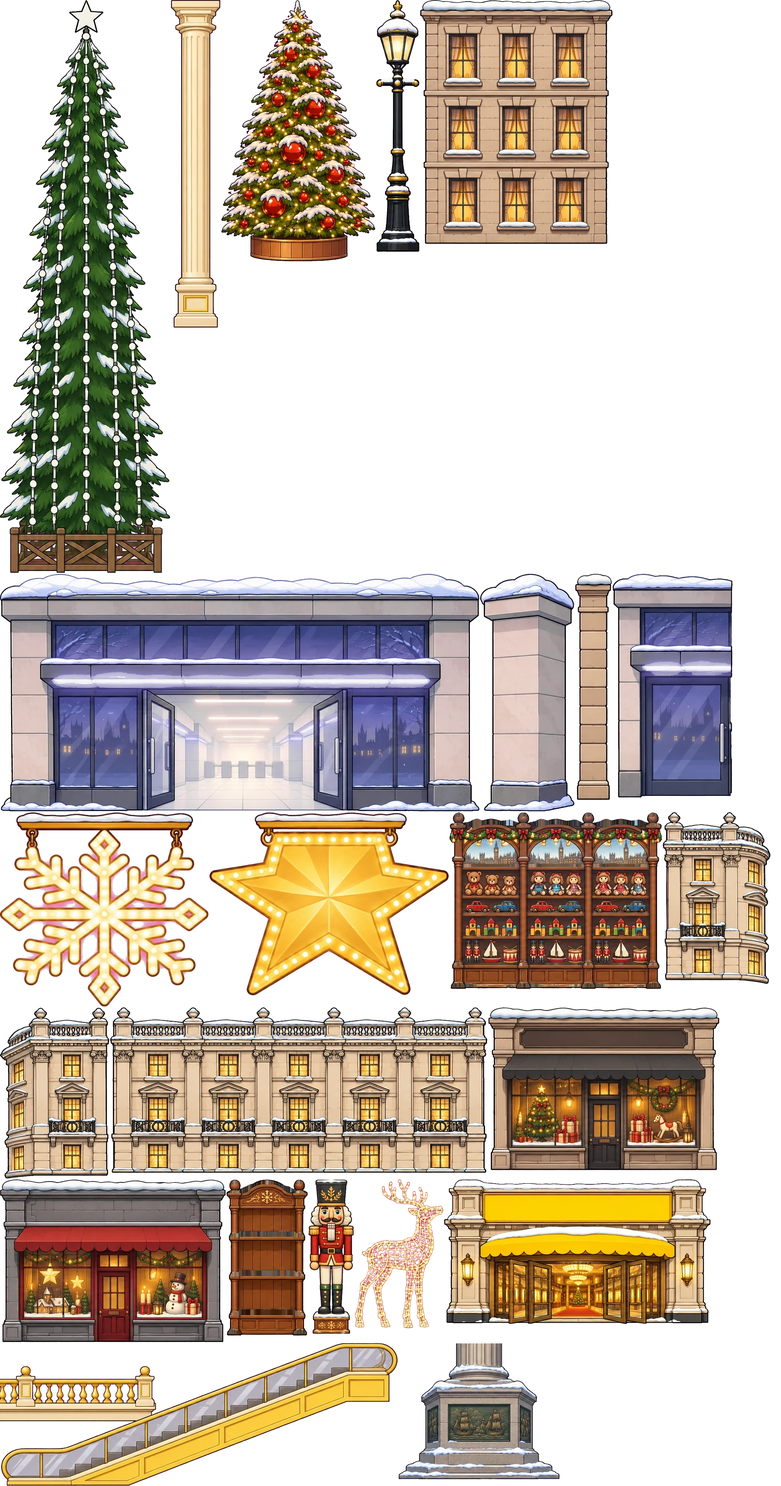
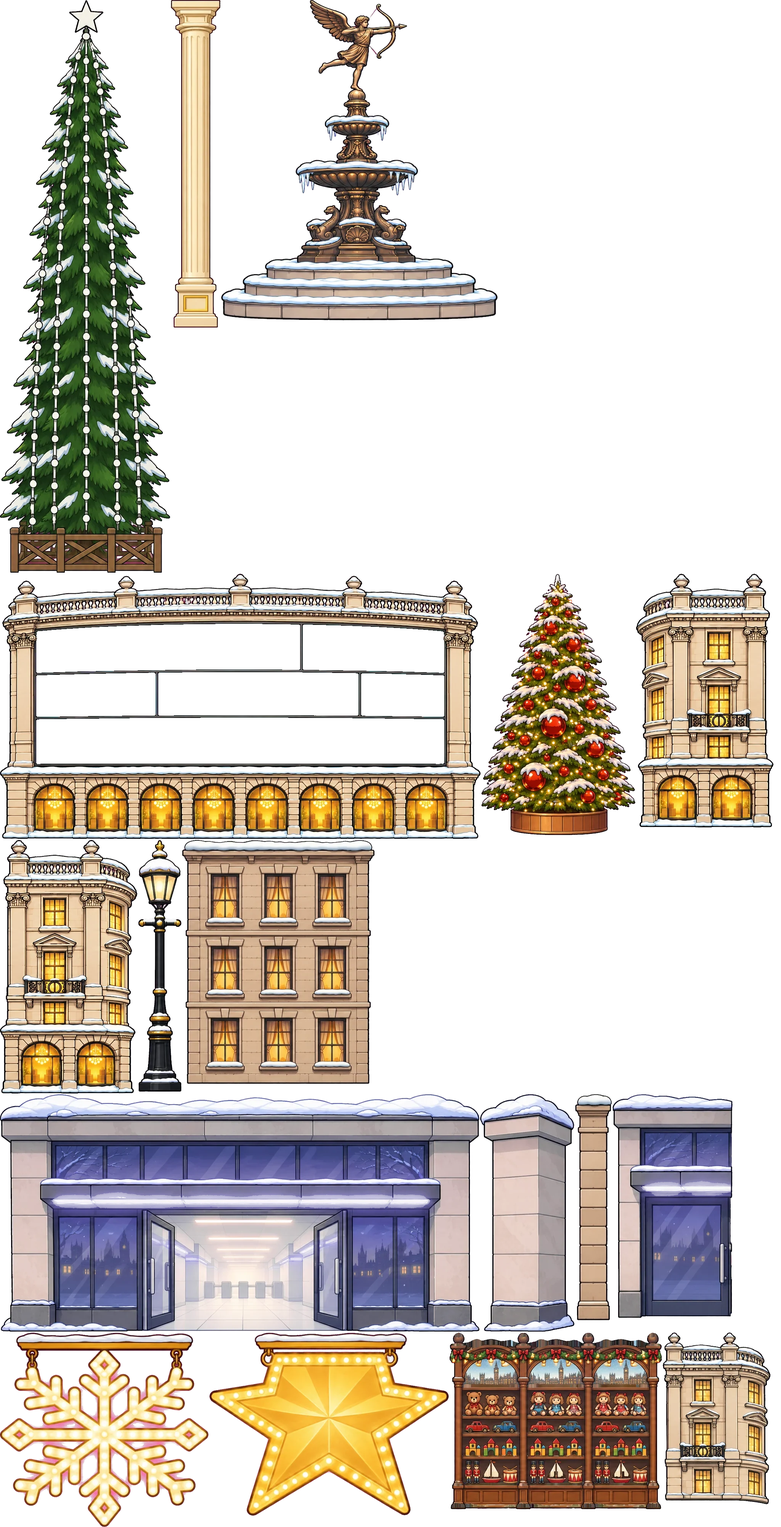
West End: Piccadilly Circus between Carnaby Street and Covent Garden
Fountain with the winged archer, then the giant screens building: made-up
adverts that change on their own, a gantry to climb (special at the top)
and a window cleaners' cradle that lowers A to the street. Covent Garden
and Trafalgar Square move along 46 units.

Claude-Session: https://claude.ai/code/session_01HFQNf7snPVbdWZysseVDQj

diff --git a/play.html b/play.html
@@ -673,7 +673,7 @@ const AREAS = {
              block: 'up_terracotta', awning: ['#3b3f86','#e9d9b5'] },
 };
 // art packed into atlas pictures (fewer files): each piece is cut out into its own canvas under its usual key
-/* ATLAS-MAP START */const ATLAS = {"atlas_dx0.webp":{"dx_h_tower2":[0,0,396,668],"dx_h_tower1":[398,0,362,573],"dx_st_spice":[762,0,524,503],"dx_st_flowers":[1288,0,505,503],"dx_st_lamps":[0,670,526,503],"dx_palm":[528,670,299,485],"dx_lamp":[829,670,120,464],"dx_garch":[951,670,469,440],"dx_h_balcony":[1422,670,397,430],"dx_shelter":[0,1175,580,399],"dx_ring":[582,1175,370,368],"a_side_dxb":[954,1175,155,360],"dx_arcade":[1111,1175,739,348],"dx_gold1":[0,1576,501,342],"dx_gold2":[503,1576,501,342],"dx_gold3":[1006,1576,494,342],"dx_forklift":[1502,1576,376,319],"dx_bougain":[0,1920,270,316],"dx_fridge":[272,1920,146,307],"dx_crates":[420,1920,248,305],"a_run_dxb":[670,1920,1278,300],"a_jump_dxb":[0,2238,995,300],"a_lean_dxb":[997,2238,920,300],"dx_p_abra":[1919,2238,105,296],"dx_p_gold":[0,2540,123,295],"dx_p_spice":[125,2540,136,294],"dx_dhow":[263,2540,732,286],"dx_p_tourist":[997,2540,133,284],"dx_p_porter":[1132,2540,200,276],"dx_h_small":[596,2837,368,263],"dx_taxi":[966,2837,631,256],"dx_taxi_open":[0,3106,622,256],"dx_pallet":[624,3106,250,234],"dx_dallah":[876,3106,141,233],"dx_tyres":[1019,3106,151,232],"dx_steps":[1172,3106,509,230],"dx_taxi_door":[1683,3106,147,228],"dx_awning":[0,3364,658,226],"dx_jetty_end":[660,3364,435,225],"dx_h_arch":[1097,3364,434,214],"dx_abra1":[1533,3364,469,212],"dx_abra2":[0,3592,458,212],"dx_spsacks":[562,3592,846,208],"dx_sacks":[1410,3592,236,205],"dx_cart":[1648,3592,331,195],"dx_bench":[0,3806,340,189],"dx_water":[342,3806,1498,178]},"atlas_dx1.webp":{"dx_g_souk":[0,0,1498,173],"dx_g_street":[0,175,1498,167],"dx_crow":[0,344,732,150],"dx_jetty":[0,496,1575,141],"dx_cat":[0,639,1050,130]},"atlas_hw0.webp":{"hw_board":[0,0,236,632],"hw_jetbridge":[238,0,1613,613],"hw_bag_back":[0,634,445,566],"hw_p_dad":[447,634,302,545],"hw_p_pack":[751,634,271,527],"hw_plant":[1024,634,300,519],"hw_p_agent":[1326,634,297,510],"hw_p_biz":[1625,634,281,509],"hw_p_perf":[0,1202,298,507],"hw_desk":[300,1202,274,487],"hw_arch":[576,1202,237,447],"hw_wake2":[815,1202,344,430],"hw_doors":[1161,1202,432,423],"hw_plane":[0,1711,1605,422],"hw_bag_fly":[0,2135,442,419],"hw_shop_fash":[444,2135,526,392],"hw_shop_perf":[972,2135,530,392],"hw_shop_sweet":[1504,2135,507,392],"hw_wake3":[0,2556,358,384],"hw_wake1":[360,2556,417,365],"hw_wake0":[779,2556,417,358],"hw_cart":[1198,2556,233,352],"hw_plane_up":[0,2942,1595,328],"hw_scanner":[0,3272,638,305],"hw_tower":[640,3272,546,297],"hw_walkway":[0,3579,1574,297]},"atlas_hw1.webp":{"hw_seats":[0,0,773,279],"hw_bin":[775,0,247,274],"hw_bag_floor":[1024,0,559,262],"hw_rollers":[1585,0,271,256],"hw_barrier":[0,281,278,240],"hw_gseats":[280,281,405,211],"hw_counter":[687,281,725,210],"hw_trolley":[1414,281,614,209],"hw_wet":[0,523,150,196],"hw_tv_l":[152,523,282,194],"hw_tv_m":[436,523,972,194],"hw_tv_r":[1410,523,281,194],"hw_pass":[1693,523,216,143],"hw_trays":[0,721,153,139]},"atlas_dt0.webp":{"dt_frame":[0,0,896,1415],"dt_waterfall":[0,1417,1282,1040],"dt_gate":[0,2459,1196,1007],"dt_t1":[1198,2459,447,688]},"atlas_dt1.webp":{"dt_dino":[0,0,2040,678],"dt_museum":[0,680,1946,646],"dt_aback":[0,1328,662,620],"dt_hand":[664,1328,1140,617],"dt_t2":[0,1950,408,606],"dt_column":[410,1950,142,549],"dt_icebar":[554,1950,858,542],"dt_plamp":[1414,1950,88,526],"dt_rail":[1504,1950,94,516],"dt_lamp":[1600,1950,167,497],"dt_ppalm":[0,2558,317,492],"dt_bridge_sand":[319,2558,618,417],"dt_esc":[0,3052,1587,410],"dt_shop6":[0,3464,508,406],"dt_shop7":[510,3464,504,406],"dt_shop8":[1016,3464,504,406],"dt_shop9":[1522,3464,509,406]},"atlas_dt2.webp":{"dt_parasol":[0,0,405,383],"dt_lift":[407,0,202,335],"dt_aquarium":[0,385,2023,329],"dt_shop1":[0,716,405,324],"dt_shop2":[407,716,405,324],"dt_shop3":[814,716,394,324],"dt_shop4":[1210,716,413,324],"dt_shop5":[1625,716,402,324],"dt_olive":[0,1042,171,307],"dt_bridge":[173,1042,1395,280],"dt_bridge_end":[0,1351,623,280],"dt_prom":[625,1351,896,234],"dt_link":[0,1633,1039,219],"dt_cyber":[1041,1633,534,218],"dt_train":[0,2065,2040,186],"dt_board":[473,2253,413,175],"dt_shark":[888,2253,423,164],"dt_pbench":[1313,2253,272,150],"dt_manta":[1587,2253,345,139],"dt_cafe":[0,2436,251,125],"dt_balcony":[253,2436,1659,123],"dt_floor":[0,2563,2040,122],"dt_post":[0,2687,53,121],"dt_rope":[55,2687,229,121],"dt_turtle":[286,2687,226,119],"dt_grass":[514,2687,154,100],"dt_shoal":[670,2687,212,99],"dt_gw":[0,2810,600,274],"ma_taxi_door":[602,2810,121,249],"dx_jeep":[725,2810,640,239],"dx_jeep_open":[1367,2810,640,239],"ma_sl_open":[0,3086,620,228],"dx_jeep_door":[622,3086,160,223],"ds_jeep":[784,3086,760,223],"ds_jeep_wheel":[1546,3086,220,221],"dt_urus":[0,3316,620,216],"dt_911":[622,3316,600,203],"ma_taxi":[1224,3316,820,180],"ma_taxi_open":[0,3534,820,180],"ma_sl":[822,3534,620,179],"dt_car":[0,3716,760,165],"ma_lambo":[762,3716,620,159],"ma_lambo_b":[1384,3716,620,159]},"atlas_pm0.webp":{"pm_tower":[0,0,500,985],"pm_leap":[502,0,1406,935],"pm_atlantis":[0,987,2040,674],"pm_play":[0,1663,515,568],"pv_door":[517,1663,467,563],"pv_door_open":[986,1663,469,563],"pv_wall":[1457,1663,351,560],"pm_glass":[0,2233,282,549],"pm_column":[284,2233,153,502],"pm_steep":[439,2233,352,496],"pm_stower":[793,2233,327,489],"pm_tube_down":[1122,2233,645,463],"pm_hut":[0,2784,399,460],"pm_hut_open":[401,2784,400,460],"pm_tube_up":[803,2784,560,448],"pm_rocks":[1365,2784,342,439],"pm_planter":[1709,2784,315,435],"pv_cabin":[0,3246,970,424],"pm_lifeguard":[972,3246,298,422],"pm_palm":[1272,3246,291,411],"pm_slide":[0,3672,641,408],"pm_aqwall":[643,3672,728,398],"pm_thatch":[1373,3672,347,367]},"atlas_pm1.webp":{"pm_scabana":[0,0,340,365],"pv_mshops":[0,367,1855,354],"pm_cabana":[0,723,391,350],"pm_tube":[393,723,765,350],"pv_win":[0,1075,2040,341],"pm_parasol":[0,1418,320,334],"pv_palm":[322,1418,206,330],"pv_mpalm":[530,1418,197,325],"pv_canopy":[729,1418,440,323],"pm_pillar":[1171,1418,215,303],"a_run_wet":[0,1754,1266,300],"a_jump_wet":[0,2056,1015,300],"a_lean_wet":[1017,2056,944,300],"a_pose_wet":[0,2358,1215,300],"a_swim_wet":[0,2660,1938,300],"a_dive_wet":[0,2962,1956,300],"pm_stairs":[0,3264,493,292],"pm_hut_door":[495,3264,113,291],"pm_jet":[610,3264,190,290],"pm_lchair":[802,3264,162,282],"pm_surf":[966,3264,235,277],"pv_cradle":[1203,3264,829,261],"pm_gwhite":[0,3558,643,255],"pm_station":[0,3815,1885,249]},"atlas_pm2.webp":{"pv_olive":[0,0,170,236],"pm_fountain":[172,0,350,233],"pm_manta":[524,0,401,204],"pm_boat":[927,0,955,203],"pm_train":[0,238,1752,197],"pm_train_open":[0,437,1753,197],"pm_tdoor":[1755,437,220,197],"pv_kiosk":[0,636,87,189],"pm_jetty":[89,636,883,183],"pm_jelly":[974,636,186,174],"pv_mdoors":[1162,636,328,171],"pv_mdoor_r":[1492,636,92,170],"pm_river":[0,827,1500,167],"pm_turtle":[1502,827,329,165],"pm_shoal":[0,996,338,165],"pv_scope":[340,996,101,165],"pm_reef":[443,996,391,164],"pm_towels":[836,996,174,163],"pm_lounger":[1012,996,298,162],"pv_rail":[1312,996,353,140],"pm_flatslide":[0,1163,578,139],"pv_mceil":[0,1304,1852,134],"pv_lounger":[0,1440,268,132],"pm_crab":[270,1440,592,130],"pm_lilo":[864,1440,550,119],"pm_ring2":[1416,1440,470,118],"pm_ring":[0,1574,317,117],"pv_mfloor":[319,1574,710,114],"pm_beam":[0,1693,1217,111],"pm_g_board":[0,1806,1500,97],"pm_angel":[1502,1806,116,95],"pv_slabglass":[0,1905,568,95],"pv_slab":[570,1905,599,93],"pm_g_water":[0,2002,1500,88],"pv_wood":[0,2092,2040,86],"pm_g_moss":[0,2180,1500,85],"pv_bench":[1502,2180,336,82],"pm_g_sand":[0,2267,1500,80],"pm_g_marble":[0,2349,1500,78],"pv_mbench":[1502,2349,295,74],"pv_ceil":[0,2429,2037,67]},"atlas_ma0.webp":{"ma_tower":[0,0,335,983],"ma_p7":[337,0,582,834],"ma_jbr_l":[921,0,403,744],"ma_jbr_r":[1326,0,405,744],"ma_jbr":[0,985,393,689],"ma_balc":[395,985,291,650],"ma_shaft":[688,985,99,646],"ma_wheel":[789,985,601,580],"ma_tw_b1":[1392,985,240,573],"ma_tw_b5":[1634,985,233,572],"ma_tw_b2":[0,1676,257,570],"ma_tw_b3":[259,1676,237,570],"ma_tw_b4":[498,1676,281,570],"ma_pod_r":[781,1676,393,569],"ma_pod_l":[1176,1676,444,568],"ma_palm":[1622,1676,373,560],"ma_pod":[0,2248,781,537],"ma_rest4":[783,2248,520,503],"ma_rest1":[1305,2248,520,501],"ma_rest3":[0,2787,517,501],"ma_rest2":[519,2787,486,500],"ma_legs":[1007,2787,473,492],"ma_jbr_arch":[1482,2787,415,484],"ma_lamp":[1899,2787,70,406],"ma_tw_t1":[0,3290,243,384],"ma_tw_t4":[245,3290,281,384],"ma_cafe1":[528,3290,354,373],"ma_cafe2":[884,3290,353,373],"ma_cafe3":[1239,3290,354,373],"ma_yacht_b":[0,3676,936,367],"ma_tw_t2":[938,3676,268,361]},"atlas_ma1.webp":{"ma_bdeck":[0,0,1032,347],"ma_tw_t3":[1034,0,247,346],"ma_tw_t5":[1283,0,219,345],"ma_bwpalm":[1504,0,236,328],"a_zip_dxb":[0,349,1580,300],"ma_launch":[0,651,543,292],"ma_p7_end":[545,651,278,292],"ma_cabin":[825,651,323,284],"ma_kiosk":[1150,651,531,273],"ma_lift":[1683,651,145,257],"ma_buoy":[1476,945,136,253],"ma_ter6":[0,1201,722,244],"ma_ter3":[724,1201,716,243],"ma_ter4":[0,1447,717,243],"ma_ter5":[719,1447,716,241],"ma_yacht_m":[0,1692,642,240],"ma_p7_door":[644,1692,610,240],"ma_land":[1256,1692,497,234],"ma_arch":[0,1934,1274,234],"ma_shower":[1276,1934,172,231],"ma_yacht_s":[0,2170,522,219],"ma_steps":[1048,2170,385,215],"ma_ter1":[0,2391,726,215],"ma_ter7":[728,2391,798,213],"ma_umbs":[1528,2391,474,206],"ma_ramp_up":[0,2608,714,204],"ma_ramp_dn":[716,2608,714,204],"ma_ter2":[0,2814,731,204],"ma_bwshops":[733,2814,838,174],"ma_dune":[1569,3020,316,148],"ma_jetski":[0,3179,298,147],"ma_pontoon":[300,3179,1676,144],"ma_p7_floor":[0,3328,402,132],"ma_p7_bridge":[404,3328,960,128],"ma_bwbench":[1366,3328,336,126],"ma_bench":[1704,3328,320,123],"ma_bollard":[0,3462,203,97],"ma_g_jbr":[205,3462,1500,89],"ma_g_plaza":[0,3561,1500,85],"ma_g_water":[0,3648,1500,84],"ma_g_walk":[0,3734,1500,76],"ma_g_deck":[0,3812,1500,71]},"atlas_ds0.webp":{"ds_lights_off":[0,0,192,637],"ds_lights_red":[194,0,192,637],"ds_lights_green":[388,0,192,637],"ds_tent":[582,0,1435,365],"ds_finish":[0,639,658,359],"ds_start":[660,639,660,359],"ds_tree":[1322,639,500,342],"ds_c2":[973,1000,417,329],"ds_c1":[1392,1000,430,325],"ds_c3":[0,1335,438,310],"ds_b_air":[440,1335,372,304],"ds_b_drive":[814,1335,350,299],"ds_b_drive2":[1166,1335,346,290],"ds_b_land":[1514,1335,374,290],"ds_b_boost":[0,1647,345,289],"ds_ramp":[347,1647,1295,236],"ds_flags":[0,1938,432,229],"ds_rocks":[640,1938,420,207],"ds_boulder":[1062,1938,582,204],"ds_lanterns":[1646,1938,225,189],"ds_b_empty":[0,2169,398,181],"ds_frond":[400,2169,489,180],"ds_b_wheel":[891,2169,180,177],"ds_fire":[1073,2169,267,152],"ds_branch":[1342,2169,409,141],"ds_shrub":[1753,2169,228,139],"ds_fence":[0,2352,552,105]},"atlas_we0.webp":{"we_tree":[0,0,446,1503],"we_eg_col":[448,0,130,859],"we_cg_tree":[580,0,404,685],"we_lamp":[986,0,114,660],"we_of_upper":[1102,0,504,640],"we_stn":[0,1505,1257,623],"we_stn_end":[1259,1505,247,623],"we_of_pier":[1508,1505,96,593],"we_stn_door":[1606,1505,315,587],"we_flake":[0,2130,547,510],"we_star":[549,2130,628,480],"we_ts_wall":[1179,2130,557,464],"we_rg_endr":[1738,2130,283,451],"we_rg_endl":[0,2642,287,449],"we_rg_upper":[289,2642,989,434],"we_of_shop1":[1280,2642,606,427],"we_of_shop2":[0,3093,592,427],"we_ts_shelf":[594,3093,213,410],"we_ts_nut":[809,3093,119,405],"we_reindeer":[930,3093,232,390],"we_ef_entr":[1164,3093,699,379],"we_eg_esc":[0,3522,1043,375],"we_tf_column":[1045,3522,422,357]},"atlas_we1.webp":{"we_ef_windows":[0,0,1401,351],"we_mh_arch":[1403,0,439,349],"we_eg_wall":[0,353,1212,348],"we_mh_out":[1214,353,744,348],"we_snowman_big":[0,703,247,345],"we_cb_row":[249,703,1240,342],"we_tf_ng":[0,1050,922,331],"we_xtree":[924,1050,199,330],"we_cb_endl":[1125,1050,186,327],"we_cb_endr":[1313,1050,183,327],"we_tf_lion":[1498,1050,502,324],"we_chalets":[0,1383,1171,318],"we_santa0":[1173,1383,263,315],"we_santa1":[1438,1383,272,315],"we_gr_arch":[0,1703,466,312],"we_tf_centre":[468,1703,302,307],"we_eg_bauble_g":[772,1703,101,300],"we_eg_bauble_r":[875,1703,100,300],"we_gr_slide":[977,1703,499,297],"we_gr_chair":[1478,1703,225,285],"we_cb_arch":[0,2017,402,284],"we_ef_endl":[404,2017,165,278],"we_ef_endr":[571,2017,165,277],"we_ts_gifts5":[738,2017,132,262],"we_mh_in":[0,2303,1492,252],"we_gr_wall":[0,2557,1486,250],"we_ef_doors":[1488,2557,412,246],"we_tf_ngend":[0,2809,397,244],"we_cb_cane":[399,2809,158,242],"we_gr_bench":[559,2809,328,240],"we_rg_ground":[0,3055,1274,238],"we_gr_sleigh":[1276,3055,315,210],"we_cb_ball":[1593,3055,158,210],"we_elf1a":[1753,3055,158,203],"we_elf1b":[0,3295,157,203],"we_elf2a":[159,3295,155,202],"we_elf2b":[316,3295,152,202],"we_elf3a":[470,3295,147,202],"we_elf3b":[619,3295,147,202],"we_cb_upper":[768,3295,1112,202],"we_cb_gift":[0,3500,167,199],"we_ts_gifts3":[169,3500,101,195],"we_chestnut":[272,3500,262,188],"we_ts_horse":[536,3500,166,180],"we_tf_ramp":[704,3500,575,169],"we_bracket":[1281,3500,153,165],"we_angel":[0,3701,811,165],"we_snowman":[813,3701,102,158],"we_tf_basin":[917,3701,554,157],"we_bench":[1473,3701,265,150],"we_eg_counter":[0,3868,861,150],"we_mh_ball_r":[863,3868,141,148],"we_mh_ball_s":[1006,3868,141,148]},"atlas_we2.webp":{"we_eg_bal":[0,0,948,146],"we_sold0":[950,0,85,142],"we_sold1":[1037,0,74,142],"we_sold2":[1113,0,80,142],"we_sold3":[1195,0,77,142],"we_gritbin":[1274,0,163,128],"we_ts_train":[1439,0,308,128],"we_ts_track":[1749,0,237,105],"we_gift4":[0,148,98,98],"we_mh_roof":[100,148,1486,95],"we_gift2":[1588,148,111,90],"we_gift3":[1701,148,89,90],"we_gr_beltl":[0,248,295,89],"we_gr_beltr":[297,248,327,88],"we_gr_belt":[626,248,962,87],"we_mh_garland":[0,339,1021,87],"we_mh_rail":[0,428,1472,80],"we_drift_long":[1474,428,287,75],"we_gift1":[1763,428,82,75],"we_gift8":[1847,428,110,72],"we_gift5":[1959,428,80,71],"we_drift":[0,510,131,68],"we_gift9":[133,510,72,67],"we_gift6":[207,510,79,63],"we_gift7":[288,510,122,63],"we_bulbs":[412,510,1362,60],"we_bulbs3":[0,580,1444,44],"we_bulbs2":[0,626,818,35]}};/* ATLAS-MAP END */
+/* ATLAS-MAP START */const ATLAS = {"atlas_dx0.webp":{"dx_h_tower2":[0,0,396,668],"dx_h_tower1":[398,0,362,573],"dx_st_spice":[762,0,524,503],"dx_st_flowers":[1288,0,505,503],"dx_st_lamps":[0,670,526,503],"dx_palm":[528,670,299,485],"dx_lamp":[829,670,120,464],"dx_garch":[951,670,469,440],"dx_h_balcony":[1422,670,397,430],"dx_shelter":[0,1175,580,399],"dx_ring":[582,1175,370,368],"a_side_dxb":[954,1175,155,360],"dx_arcade":[1111,1175,739,348],"dx_gold1":[0,1576,501,342],"dx_gold2":[503,1576,501,342],"dx_gold3":[1006,1576,494,342],"dx_forklift":[1502,1576,376,319],"dx_bougain":[0,1920,270,316],"dx_fridge":[272,1920,146,307],"dx_crates":[420,1920,248,305],"a_run_dxb":[670,1920,1278,300],"a_jump_dxb":[0,2238,995,300],"a_lean_dxb":[997,2238,920,300],"dx_p_abra":[1919,2238,105,296],"dx_p_gold":[0,2540,123,295],"dx_p_spice":[125,2540,136,294],"dx_dhow":[263,2540,732,286],"dx_p_tourist":[997,2540,133,284],"dx_p_porter":[1132,2540,200,276],"dx_h_small":[596,2837,368,263],"dx_taxi":[966,2837,631,256],"dx_taxi_open":[0,3106,622,256],"dx_pallet":[624,3106,250,234],"dx_dallah":[876,3106,141,233],"dx_tyres":[1019,3106,151,232],"dx_steps":[1172,3106,509,230],"dx_taxi_door":[1683,3106,147,228],"dx_awning":[0,3364,658,226],"dx_jetty_end":[660,3364,435,225],"dx_h_arch":[1097,3364,434,214],"dx_abra1":[1533,3364,469,212],"dx_abra2":[0,3592,458,212],"dx_spsacks":[562,3592,846,208],"dx_sacks":[1410,3592,236,205],"dx_cart":[1648,3592,331,195],"dx_bench":[0,3806,340,189],"dx_water":[342,3806,1498,178]},"atlas_dx1.webp":{"dx_g_souk":[0,0,1498,173],"dx_g_street":[0,175,1498,167],"dx_crow":[0,344,732,150],"dx_jetty":[0,496,1575,141],"dx_cat":[0,639,1050,130]},"atlas_hw0.webp":{"hw_board":[0,0,236,632],"hw_jetbridge":[238,0,1613,613],"hw_bag_back":[0,634,445,566],"hw_p_dad":[447,634,302,545],"hw_p_pack":[751,634,271,527],"hw_plant":[1024,634,300,519],"hw_p_agent":[1326,634,297,510],"hw_p_biz":[1625,634,281,509],"hw_p_perf":[0,1202,298,507],"hw_desk":[300,1202,274,487],"hw_arch":[576,1202,237,447],"hw_wake2":[815,1202,344,430],"hw_doors":[1161,1202,432,423],"hw_plane":[0,1711,1605,422],"hw_bag_fly":[0,2135,442,419],"hw_shop_fash":[444,2135,526,392],"hw_shop_perf":[972,2135,530,392],"hw_shop_sweet":[1504,2135,507,392],"hw_wake3":[0,2556,358,384],"hw_wake1":[360,2556,417,365],"hw_wake0":[779,2556,417,358],"hw_cart":[1198,2556,233,352],"hw_plane_up":[0,2942,1595,328],"hw_scanner":[0,3272,638,305],"hw_tower":[640,3272,546,297],"hw_walkway":[0,3579,1574,297]},"atlas_hw1.webp":{"hw_seats":[0,0,773,279],"hw_bin":[775,0,247,274],"hw_bag_floor":[1024,0,559,262],"hw_rollers":[1585,0,271,256],"hw_barrier":[0,281,278,240],"hw_gseats":[280,281,405,211],"hw_counter":[687,281,725,210],"hw_trolley":[1414,281,614,209],"hw_wet":[0,523,150,196],"hw_tv_l":[152,523,282,194],"hw_tv_m":[436,523,972,194],"hw_tv_r":[1410,523,281,194],"hw_pass":[1693,523,216,143],"hw_trays":[0,721,153,139]},"atlas_dt0.webp":{"dt_frame":[0,0,896,1415],"dt_waterfall":[0,1417,1282,1040],"dt_gate":[0,2459,1196,1007],"dt_t1":[1198,2459,447,688]},"atlas_dt1.webp":{"dt_dino":[0,0,2040,678],"dt_museum":[0,680,1946,646],"dt_aback":[0,1328,662,620],"dt_hand":[664,1328,1140,617],"dt_t2":[0,1950,408,606],"dt_column":[410,1950,142,549],"dt_icebar":[554,1950,858,542],"dt_plamp":[1414,1950,88,526],"dt_rail":[1504,1950,94,516],"dt_lamp":[1600,1950,167,497],"dt_ppalm":[0,2558,317,492],"dt_bridge_sand":[319,2558,618,417],"dt_esc":[0,3052,1587,410],"dt_shop6":[0,3464,508,406],"dt_shop7":[510,3464,504,406],"dt_shop8":[1016,3464,504,406],"dt_shop9":[1522,3464,509,406]},"atlas_dt2.webp":{"dt_parasol":[0,0,405,383],"dt_lift":[407,0,202,335],"dt_aquarium":[0,385,2023,329],"dt_shop1":[0,716,405,324],"dt_shop2":[407,716,405,324],"dt_shop3":[814,716,394,324],"dt_shop4":[1210,716,413,324],"dt_shop5":[1625,716,402,324],"dt_olive":[0,1042,171,307],"dt_bridge":[173,1042,1395,280],"dt_bridge_end":[0,1351,623,280],"dt_prom":[625,1351,896,234],"dt_link":[0,1633,1039,219],"dt_cyber":[1041,1633,534,218],"dt_train":[0,2065,2040,186],"dt_board":[473,2253,413,175],"dt_shark":[888,2253,423,164],"dt_pbench":[1313,2253,272,150],"dt_manta":[1587,2253,345,139],"dt_cafe":[0,2436,251,125],"dt_balcony":[253,2436,1659,123],"dt_floor":[0,2563,2040,122],"dt_post":[0,2687,53,121],"dt_rope":[55,2687,229,121],"dt_turtle":[286,2687,226,119],"dt_grass":[514,2687,154,100],"dt_shoal":[670,2687,212,99],"dt_gw":[0,2810,600,274],"ma_taxi_door":[602,2810,121,249],"dx_jeep":[725,2810,640,239],"dx_jeep_open":[1367,2810,640,239],"ma_sl_open":[0,3086,620,228],"dx_jeep_door":[622,3086,160,223],"ds_jeep":[784,3086,760,223],"ds_jeep_wheel":[1546,3086,220,221],"dt_urus":[0,3316,620,216],"dt_911":[622,3316,600,203],"ma_taxi":[1224,3316,820,180],"ma_taxi_open":[0,3534,820,180],"ma_sl":[822,3534,620,179],"dt_car":[0,3716,760,165],"ma_lambo":[762,3716,620,159],"ma_lambo_b":[1384,3716,620,159]},"atlas_pm0.webp":{"pm_tower":[0,0,500,985],"pm_leap":[502,0,1406,935],"pm_atlantis":[0,987,2040,674],"pm_play":[0,1663,515,568],"pv_door":[517,1663,467,563],"pv_door_open":[986,1663,469,563],"pv_wall":[1457,1663,351,560],"pm_glass":[0,2233,282,549],"pm_column":[284,2233,153,502],"pm_steep":[439,2233,352,496],"pm_stower":[793,2233,327,489],"pm_tube_down":[1122,2233,645,463],"pm_hut":[0,2784,399,460],"pm_hut_open":[401,2784,400,460],"pm_tube_up":[803,2784,560,448],"pm_rocks":[1365,2784,342,439],"pm_planter":[1709,2784,315,435],"pv_cabin":[0,3246,970,424],"pm_lifeguard":[972,3246,298,422],"pm_palm":[1272,3246,291,411],"pm_slide":[0,3672,641,408],"pm_aqwall":[643,3672,728,398],"pm_thatch":[1373,3672,347,367]},"atlas_pm1.webp":{"pm_scabana":[0,0,340,365],"pv_mshops":[0,367,1855,354],"pm_cabana":[0,723,391,350],"pm_tube":[393,723,765,350],"pv_win":[0,1075,2040,341],"pm_parasol":[0,1418,320,334],"pv_palm":[322,1418,206,330],"pv_mpalm":[530,1418,197,325],"pv_canopy":[729,1418,440,323],"pm_pillar":[1171,1418,215,303],"a_run_wet":[0,1754,1266,300],"a_jump_wet":[0,2056,1015,300],"a_lean_wet":[1017,2056,944,300],"a_pose_wet":[0,2358,1215,300],"a_swim_wet":[0,2660,1938,300],"a_dive_wet":[0,2962,1956,300],"pm_stairs":[0,3264,493,292],"pm_hut_door":[495,3264,113,291],"pm_jet":[610,3264,190,290],"pm_lchair":[802,3264,162,282],"pm_surf":[966,3264,235,277],"pv_cradle":[1203,3264,829,261],"pm_gwhite":[0,3558,643,255],"pm_station":[0,3815,1885,249]},"atlas_pm2.webp":{"pv_olive":[0,0,170,236],"pm_fountain":[172,0,350,233],"pm_manta":[524,0,401,204],"pm_boat":[927,0,955,203],"pm_train":[0,238,1752,197],"pm_train_open":[0,437,1753,197],"pm_tdoor":[1755,437,220,197],"pv_kiosk":[0,636,87,189],"pm_jetty":[89,636,883,183],"pm_jelly":[974,636,186,174],"pv_mdoors":[1162,636,328,171],"pv_mdoor_r":[1492,636,92,170],"pm_river":[0,827,1500,167],"pm_turtle":[1502,827,329,165],"pm_shoal":[0,996,338,165],"pv_scope":[340,996,101,165],"pm_reef":[443,996,391,164],"pm_towels":[836,996,174,163],"pm_lounger":[1012,996,298,162],"pv_rail":[1312,996,353,140],"pm_flatslide":[0,1163,578,139],"pv_mceil":[0,1304,1852,134],"pv_lounger":[0,1440,268,132],"pm_crab":[270,1440,592,130],"pm_lilo":[864,1440,550,119],"pm_ring2":[1416,1440,470,118],"pm_ring":[0,1574,317,117],"pv_mfloor":[319,1574,710,114],"pm_beam":[0,1693,1217,111],"pm_g_board":[0,1806,1500,97],"pm_angel":[1502,1806,116,95],"pv_slabglass":[0,1905,568,95],"pv_slab":[570,1905,599,93],"pm_g_water":[0,2002,1500,88],"pv_wood":[0,2092,2040,86],"pm_g_moss":[0,2180,1500,85],"pv_bench":[1502,2180,336,82],"pm_g_sand":[0,2267,1500,80],"pm_g_marble":[0,2349,1500,78],"pv_mbench":[1502,2349,295,74],"pv_ceil":[0,2429,2037,67]},"atlas_ma0.webp":{"ma_tower":[0,0,335,983],"ma_p7":[337,0,582,834],"ma_jbr_l":[921,0,403,744],"ma_jbr_r":[1326,0,405,744],"ma_jbr":[0,985,393,689],"ma_balc":[395,985,291,650],"ma_shaft":[688,985,99,646],"ma_wheel":[789,985,601,580],"ma_tw_b1":[1392,985,240,573],"ma_tw_b5":[1634,985,233,572],"ma_tw_b2":[0,1676,257,570],"ma_tw_b3":[259,1676,237,570],"ma_tw_b4":[498,1676,281,570],"ma_pod_r":[781,1676,393,569],"ma_pod_l":[1176,1676,444,568],"ma_palm":[1622,1676,373,560],"ma_pod":[0,2248,781,537],"ma_rest4":[783,2248,520,503],"ma_rest1":[1305,2248,520,501],"ma_rest3":[0,2787,517,501],"ma_rest2":[519,2787,486,500],"ma_legs":[1007,2787,473,492],"ma_jbr_arch":[1482,2787,415,484],"ma_lamp":[1899,2787,70,406],"ma_tw_t1":[0,3290,243,384],"ma_tw_t4":[245,3290,281,384],"ma_cafe1":[528,3290,354,373],"ma_cafe2":[884,3290,353,373],"ma_cafe3":[1239,3290,354,373],"ma_yacht_b":[0,3676,936,367],"ma_tw_t2":[938,3676,268,361]},"atlas_ma1.webp":{"ma_bdeck":[0,0,1032,347],"ma_tw_t3":[1034,0,247,346],"ma_tw_t5":[1283,0,219,345],"ma_bwpalm":[1504,0,236,328],"a_zip_dxb":[0,349,1580,300],"ma_launch":[0,651,543,292],"ma_p7_end":[545,651,278,292],"ma_cabin":[825,651,323,284],"ma_kiosk":[1150,651,531,273],"ma_lift":[1683,651,145,257],"ma_buoy":[1476,945,136,253],"ma_ter6":[0,1201,722,244],"ma_ter3":[724,1201,716,243],"ma_ter4":[0,1447,717,243],"ma_ter5":[719,1447,716,241],"ma_yacht_m":[0,1692,642,240],"ma_p7_door":[644,1692,610,240],"ma_land":[1256,1692,497,234],"ma_arch":[0,1934,1274,234],"ma_shower":[1276,1934,172,231],"ma_yacht_s":[0,2170,522,219],"ma_steps":[1048,2170,385,215],"ma_ter1":[0,2391,726,215],"ma_ter7":[728,2391,798,213],"ma_umbs":[1528,2391,474,206],"ma_ramp_up":[0,2608,714,204],"ma_ramp_dn":[716,2608,714,204],"ma_ter2":[0,2814,731,204],"ma_bwshops":[733,2814,838,174],"ma_dune":[1569,3020,316,148],"ma_jetski":[0,3179,298,147],"ma_pontoon":[300,3179,1676,144],"ma_p7_floor":[0,3328,402,132],"ma_p7_bridge":[404,3328,960,128],"ma_bwbench":[1366,3328,336,126],"ma_bench":[1704,3328,320,123],"ma_bollard":[0,3462,203,97],"ma_g_jbr":[205,3462,1500,89],"ma_g_plaza":[0,3561,1500,85],"ma_g_water":[0,3648,1500,84],"ma_g_walk":[0,3734,1500,76],"ma_g_deck":[0,3812,1500,71]},"atlas_ds0.webp":{"ds_lights_off":[0,0,192,637],"ds_lights_red":[194,0,192,637],"ds_lights_green":[388,0,192,637],"ds_tent":[582,0,1435,365],"ds_finish":[0,639,658,359],"ds_start":[660,639,660,359],"ds_tree":[1322,639,500,342],"ds_c2":[973,1000,417,329],"ds_c1":[1392,1000,430,325],"ds_c3":[0,1335,438,310],"ds_b_air":[440,1335,372,304],"ds_b_drive":[814,1335,350,299],"ds_b_drive2":[1166,1335,346,290],"ds_b_land":[1514,1335,374,290],"ds_b_boost":[0,1647,345,289],"ds_ramp":[347,1647,1295,236],"ds_flags":[0,1938,432,229],"ds_rocks":[640,1938,420,207],"ds_boulder":[1062,1938,582,204],"ds_lanterns":[1646,1938,225,189],"ds_b_empty":[0,2169,398,181],"ds_frond":[400,2169,489,180],"ds_b_wheel":[891,2169,180,177],"ds_fire":[1073,2169,267,152],"ds_branch":[1342,2169,409,141],"ds_shrub":[1753,2169,228,139],"ds_fence":[0,2352,552,105]},"atlas_we0.webp":{"we_tree":[0,0,446,1503],"we_eg_col":[448,0,130,859],"we_pc_fountain":[580,0,725,840],"we_pc_bld":[0,1505,1260,696],"we_cg_tree":[1262,1505,404,685],"we_pc_endl":[1668,1505,360,665],"we_pc_endr":[0,2203,360,665],"we_lamp":[362,2203,114,660],"we_of_upper":[478,2203,504,640],"we_stn":[0,2870,1257,623],"we_stn_end":[1259,2870,247,623],"we_of_pier":[1508,2870,96,593],"we_stn_door":[1606,2870,315,587],"we_flake":[0,3495,547,510],"we_star":[549,3495,628,480],"we_ts_wall":[1179,3495,557,464],"we_rg_endr":[1738,3495,283,451]},"atlas_we1.webp":{"we_rg_endl":[0,0,287,449],"we_rg_upper":[289,0,989,434],"we_of_shop1":[1280,0,606,427],"we_of_shop2":[0,451,592,427],"we_ts_shelf":[594,451,213,410],"we_ts_nut":[809,451,119,405],"we_reindeer":[930,451,232,390],"we_pc_sign":[1164,451,158,390],"we_ef_entr":[1324,451,699,379],"we_eg_esc":[0,880,1043,375],"we_gw_ladder":[1045,880,134,360],"we_tf_column":[1181,880,422,357],"we_ef_windows":[0,1257,1401,351],"we_mh_arch":[1403,1257,439,349],"we_eg_wall":[0,1610,1212,348],"we_mh_out":[1214,1610,744,348],"we_snowman_big":[0,1960,247,345],"we_cb_row":[249,1960,1240,342],"we_tf_ng":[0,2307,922,331],"we_xtree":[924,2307,199,330],"we_cb_endl":[1125,2307,186,327],"we_cb_endr":[1313,2307,183,327],"we_tf_lion":[1498,2307,502,324],"we_chalets":[0,2640,1171,318],"we_santa0":[1173,2640,263,315],"we_santa1":[1438,2640,272,315],"we_gr_arch":[0,2960,466,312],"we_tf_centre":[468,2960,302,307],"we_eg_bauble_g":[772,2960,101,300],"we_eg_bauble_r":[875,2960,100,300],"we_gr_slide":[977,2960,499,297],"we_gr_chair":[1478,2960,225,285],"we_cb_arch":[0,3274,402,284],"we_ef_endl":[404,3274,165,278],"we_ef_endr":[571,3274,165,277],"we_ts_gifts5":[738,3274,132,262],"we_mh_in":[0,3560,1492,252],"we_gr_wall":[0,3814,1486,250],"we_ef_doors":[1488,3814,412,246]},"atlas_we2.webp":{"we_tf_ngend":[0,0,397,244],"we_cb_cane":[399,0,158,242],"we_gr_bench":[559,0,328,240],"we_pc_flowers":[889,0,207,240],"we_rg_ground":[0,246,1274,238],"we_pc_cart":[1276,246,172,225],"we_gr_sleigh":[1450,246,315,210],"we_cb_ball":[1767,246,158,210],"we_gw_bracket":[0,486,256,210],"we_elf1a":[258,486,158,203],"we_elf1b":[418,486,157,203],"we_elf2a":[577,486,155,202],"we_elf2b":[734,486,152,202],"we_elf3a":[888,486,147,202],"we_elf3b":[1037,486,147,202],"we_cb_upper":[0,698,1112,202],"we_cb_gift":[1114,698,167,199],"we_gw_l":[1283,698,348,199],"we_gw_m":[0,902,903,199],"we_gw_r":[905,902,349,199],"we_ts_gifts3":[1256,902,101,195],"we_chestnut":[1359,902,262,188],"we_ts_horse":[1623,902,166,180],"we_tf_ramp":[0,1103,575,169],"we_bracket":[577,1103,153,165],"we_angel":[732,1103,811,165],"we_snowman":[1545,1103,102,158],"we_tf_basin":[0,1274,554,157],"we_bench":[556,1274,265,150],"we_eg_counter":[823,1274,861,150],"we_mh_ball_r":[1686,1274,141,148],"we_mh_ball_s":[1829,1274,141,148],"we_eg_bal":[0,1433,948,146],"we_sold0":[950,1433,85,142],"we_sold1":[1037,1433,74,142],"we_sold2":[1113,1433,80,142],"we_sold3":[1195,1433,77,142],"we_gritbin":[1274,1433,163,128],"we_ts_train":[1439,1433,308,128],"we_pc_barrier":[1749,1433,192,112],"we_ts_track":[0,1581,237,105],"we_gift4":[239,1581,98,98],"we_mh_roof":[339,1581,1486,95],"we_gift2":[1827,1581,111,90],"we_gift3":[1940,1581,89,90],"we_gr_beltl":[0,1688,295,89],"we_gr_beltr":[297,1688,327,88],"we_gr_belt":[626,1688,962,87],"we_mh_garland":[0,1779,1021,87],"we_mh_rail":[0,1868,1472,80],"we_drift_long":[1474,1868,287,75],"we_gift1":[1763,1868,82,75],"we_gift8":[1847,1868,110,72],"we_gift5":[1959,1868,80,71],"we_drift":[0,1950,131,68],"we_gift9":[133,1950,72,67],"we_gift6":[207,1950,79,63],"we_gift7":[288,1950,122,63],"we_bulbs":[412,1950,1362,60],"we_bulbs3":[0,2020,1444,44],"we_bulbs2":[0,2066,818,35]}};/* ATLAS-MAP END */
 const ATLAS_OF = {}; for (const f in ATLAS) for (const k in ATLAS[f]) ATLAS_OF[k] = f;
 const atlasPics = {};
 function atlasPic(f) { return atlasPics[f] || (atlasPics[f] = new Promise(res => { const im = new Image(); im.onload = () => res(im); im.onerror = () => res(null); im.src = f; })); }
@@ -5768,7 +5768,9 @@ const WE_IMAGES = ['we_far1', 'we_far2', 'we_mid1', 'we_mid2', 'we_mid3', 'we_g_
   'we_gr_bench', 'we_gr_chair', 'we_gr_slide', 'we_gr_sleigh', 'we_santa0', 'we_santa1', 'we_elf1a', 'we_elf1b', 'we_elf2a', 'we_elf2b', 'we_elf3a', 'we_elf3b',
   'we_rg_endl', 'we_rg_upper', 'we_rg_endr', 'we_rg_ground', 'we_angel', 'we_cb_row', 'we_cb_upper', 'we_cb_endl', 'we_cb_endr', 'we_cb_arch', 'we_cb_ball', 'we_cb_cane', 'we_cb_gift',
   'we_mh_out', 'we_mh_arch', 'we_mh_in', 'we_mh_rail', 'we_mh_roof', 'we_mh_ball_r', 'we_mh_ball_s', 'we_mh_garland', 'we_cg_tree', 'we_reindeer', 'we_chalets', 'we_chestnut',
-  'we_tf_centre', 'we_tf_ramp', 'we_tf_basin', 'we_tf_column', 'we_tf_ng', 'we_tf_ngend', 'we_tf_lion'];
+  'we_tf_centre', 'we_tf_ramp', 'we_tf_basin', 'we_tf_column', 'we_tf_ng', 'we_tf_ngend', 'we_tf_lion',
+  'we_mid4', 'we_pc_bld', 'we_pc_endl', 'we_pc_endr', 'we_gw_l', 'we_gw_m', 'we_gw_r', 'we_gw_ladder', 'we_gw_bracket', 'we_pc_fountain', 'we_pc_sign', 'we_pc_cart',
+  'we_pc_flowers', 'we_pc_barrier', 'we_ad1', 'we_ad2', 'we_ad3', 'we_ad4', 'we_ad5', 'we_ad6'];
 const WE_GROUND = { wepave: ['we_g_pave', 1.2, 0.3, '#5c6272', '#2c303d'], wemarble: ['we_g_marble', 0.8, 0.22, '#8c6f4c', '#4a3826'],
   wecobble: ['we_g_cobble', 1.0, 0.28, '#50525e', '#2a2b33'], wegranite: ['we_g_granite', 1.0, 0.28, '#5a5d6a', '#2e3038'] };
 const weA = () => G && AREAS[G.L.area].westend;
@@ -5829,13 +5831,15 @@ function weSnow(layer) {
 // backdrops: far rooftops with the BT Tower until Elfridges, then Nelson's Column, Big Ben and the Eye.
 // The middle strip changes inside Elfridges and behind the Carnaby row, where the buildings hide the seam.
 function weBands() {
-  const L = G.L, s1 = L.weEf ? (L.weEf.box + L.weInside.x1) / 2 : 1e9, s2 = L.weCbSwap || 1e9;
+  const L = G.L, s1 = L.weEf ? (L.weEf.box + L.weInside.x1) / 2 : 1e9, s2 = L.weCbSwap || 1e9, [s3, s4] = L.wePc ? L.wePc.swap : [1e9, 1e9];
   const band = (key, par, hU, bot) => maBand(key, par, hU, bot);
-  const S1 = sx(s1), S2 = sx(s2);
+  const S1 = sx(s1), S2 = sx(s2), S3 = sx(s3), S4 = sx(s4);
   const part = (a, b, fn) => { if (b <= a) return; ctx.save(); ctx.beginPath(); ctx.rect(a, -10, b - a, H + 20); ctx.clip(); fn(); ctx.restore(); };
   part(-10, Math.min(W + 10, S1), () => { band('we_far1', 0.1, 13.0, 0.3); band('we_mid1', 0.3, 7.6, -0.4); });
   part(Math.max(-10, S1), Math.min(W + 10, S2), () => { band('we_far2', 0.1, 13.0, 0.3); band('we_mid2', 0.3, 7.6, -0.4); });
-  part(Math.max(-10, S2), W + 10, () => { band('we_far2', 0.1, 14.5, 0.3); band('we_mid3', 0.3, 8.4, -0.5); });
+  part(Math.max(-10, S2), Math.min(W + 10, S3), () => { band('we_far2', 0.1, 14.5, 0.3); band('we_mid3', 0.3, 8.4, -0.5); });
+  part(Math.max(-10, S3), Math.min(W + 10, S4), () => { band('we_far2', 0.1, 14.5, 0.3); band('we_mid4', 0.3, 8.4, -0.5); });   // Piccadilly Circus (behind the Carnaby row and the screens building's end)
+  part(Math.max(-10, S4), W + 10, () => { band('we_far2', 0.1, 14.5, 0.3); band('we_mid3', 0.3, 8.4, -0.5); });
   weSnow(0);
 }
 function weGround(s) {
@@ -5993,6 +5997,58 @@ function weTrafalgar() {
     ctx.fillStyle = 'rgba(255,255,255,.45)'; ctx.beginPath(); ctx.ellipse(gx, sy(1.0) + 0.05 * U, 0.5 * U, 0.06 * U, 0, 0, Math.PI * 2); ctx.fill();
   }
 }
+// Piccadilly Circus: the giant screens (the adverts change on their own; each wide screen shows a few side by side),
+// the gantry across them, and the window cleaners' cradle that lowers A to the street
+const WE_PC_H = 11.0, WE_PC_W = 19.914, WE_PC_SCREENS = [[0.0754, 0.1882, 0.6246, 0.3736], [0.6302, 0.1911, 0.9254, 0.3736], [0.0754, 0.3721, 0.3238, 0.5388], [0.3294, 0.3707, 0.746, 0.5345], [0.7516, 0.375, 0.9246, 0.5388], [0.0754, 0.5417, 0.9246, 0.717]];
+function wePiccadilly() {
+  const P = G.L.wePc; if (!P || sx(P.x1 + 7) < 0 || sx(P.x0 - 1) > W) return;
+  const t = animT;
+  // the adverts, behind the building's see-through screens
+  WE_PC_SCREENS.forEach(([a, b, c, d], i) => {
+    const x0 = P.bm + a * WE_PC_W, x1 = P.bm + c * WE_PC_W, y1 = WE_PC_H * (1 - b), y0 = WE_PC_H * (1 - d), sw = x1 - x0, sh = y1 - y0;
+    if (sx(x1) < 0 || sx(x0) > W) return;
+    ctx.fillStyle = '#10183a'; ctx.fillRect(sx(x0 - 0.05), sy(y1 + 0.05), (sw + 0.1) * U, (sh + 0.1) * U);
+    const n = Math.max(1, Math.round(sw / (sh * 1.78))), cw = sw / n;
+    for (let j = 0; j < n; j++) {
+      const k = i * 3 + j, ph = (t + k * 0.55) / 3.5, cur = Math.floor(ph), f = ph - cur;   // neighbouring screens never show the same advert
+      const ad = q => IMG['we_ad' + (1 + (q + k) % 6)];
+      const X = sx(x0 + j * cw), Y = sy(y1), w = cw * U, h = sh * U;
+      const cover = (im, dy) => { if (!im) return; const r = Math.max(w / im.width, h / im.height), iw = w / r, ih = h / r;
+        ctx.drawImage(im, (im.width - iw) / 2, (im.height - ih) / 2, iw, ih, X, Y + dy, w, h); };
+      ctx.save(); ctx.beginPath(); ctx.rect(X, Y, w, h); ctx.clip();
+      const wipe = f > 0.88 ? (f - 0.88) / 0.12 : 0;   // the next advert slides down over the last one
+      cover(ad(cur), 0); if (wipe) cover(ad(cur + 1), (wipe - 1) * h);
+      ctx.restore();
+      if (j) { ctx.fillStyle = '#1b1c26'; ctx.fillRect(X - 0.03 * U, Y, 0.06 * U, h); }
+    }
+  });
+  // the building over them, and its two side buildings
+  bxImg('we_pc_bld', P.bm, 0, WE_PC_H);
+  bxImg('we_pc_endl', P.x0 + 0.02, 0, 10.53); bxImg('we_pc_endr', P.x1 - 0.02, 0, 10.53);
+  // the screens' glow on the snow in front
+  ctx.save(); ctx.globalCompositeOperation = 'lighter'; ctx.globalAlpha = 0.16 + 0.04 * Math.sin(t * 2.3);
+  const gx = sx(P.bm + WE_PC_W / 2), gy = sy(0), g = ctx.createRadialGradient(gx, gy, 0, gx, gy, WE_PC_W * 0.55 * U);
+  g.addColorStop(0, 'rgba(120,200,255,1)'); g.addColorStop(1, 'rgba(120,200,255,0)'); ctx.fillStyle = g; ctx.fillRect(gx - WE_PC_W * 0.6 * U, gy - 4 * U, WE_PC_W * 1.2 * U, 4.3 * U);
+  ctx.restore();
+  // ladders, then the walkways on their brackets
+  for (const [x, y] of G.L.weLadders || []) bxImg('we_gw_ladder', x, y - 0.1, 2.4);
+  for (const g of G.L.weGw || []) {
+    const top = g.y - 0.6;
+    for (const bx of [g.x0 + 0.6, g.x1 - 2.2]) bxImg('we_gw_bracket', bx, top - 1.3, 1.4);
+    for (const [k, x] of g.pcs) bxImg(k, x, top, 1.754);
+  }
+  // the cradle and its cables down from the roof of the end building
+  const C = G.L.weCradle; if (C && typeof cwImg === 'function') {
+    const y = ARun.moverY(C, G.t), cab = IMG.cwt_cable, left = C.x - 0.05, roof = 10.4;
+    for (const cx of [left + 85 / 219, left + 897 / 219]) if (cab) {
+      const w = cab.width / 219 * U, th = cab.height / 219 * U, Xc = sx(cx) - w / 2, Y0 = sy(roof), Y1 = sy(y + 584 / 219) + 0.3 * U;
+      ctx.save(); ctx.beginPath(); ctx.rect(Xc - 1, Y0, w + 2, Y1 - Y0); ctx.clip();
+      for (let yy = Y0; yy < Y1; yy += th - 1) ctx.drawImage(cab, Xc, yy, w, th);
+      ctx.restore();
+    }
+    cwImg('cwt_cradle', left, y - 156 / 219);
+  }
+}
 const WE_TREE_H = 9.4;
 // the tall tree: its lights come on string by string from the bottom, then the star
 function weTree() {
@@ -6015,6 +6071,7 @@ function drawWestEnd(dt) {
   weSky(); weBands();
   weStation(false);
   weRows();
+  wePiccadilly();
   weElfridges();
   weArt(a => a.back && a.key !== 'we_ef_entr');
   weArt(a => a.key === 'we_ef_entr');

diff --git a/game.js b/game.js
@@ -1130,7 +1130,7 @@ const ALL_LEVELS = [
     const L = b.L;
     // The West End at Christmas, drawn from Ladi's art (src/westend/cut.py; sizes in src/westend/pieces.json).
     // Bond Street Elizabeth line exit -> Oxford Street lights -> Elfridges (hall, toy shop, Santa's grotto, present chute)
-    // -> Regent Street angels -> Carnaby Street -> Covent Garden piazza + market hall -> Trafalgar Square ice slide -> tree lights.
+    // -> Regent Street angels -> Carnaby Street -> Piccadilly Circus screens -> Covent Garden piazza + market hall -> Trafalgar Square ice slide -> tree lights.
     L.killY = -12; L.startX = 2.0; L.camMin = -6; L.snow = true;
     const art = (key, x, y, h, o = {}) => (L.weArt = L.weArt || []).push(Object.assign({ key, x, y, h }, o));   // a picture standing at (x, y), h units tall
     const solid = (x, w, h, y = 0, o = {}) => { L.solids.push(Object.assign({ kind: 'block', x, y, w, h, style: 'hidden' }, o)); };
@@ -1160,7 +1160,7 @@ const ALL_LEVELS = [
     for (const [, x, w] of SHOPS) ledge(x + 0.35, 2.82, w - 0.7);   // the shop canopies
     // hanging lights across the street: snowflakes and stars, their top bars are ledges
     const flake = (x, y, star) => { art(star ? 'we_star' : 'we_flake', x, y, star ? 3.2 : 3.4, { hang: true }); ledge(x + 0.3, y + (star ? 3.05 : 3.25), (star ? 4.187 : 3.647) - 0.6); };
-    L.weStrings = [[6, 70, 7.6], [171, 219, 7.7], [221, 261, 7.4], [262, 289, 7.8]];
+    L.weStrings = [[6, 70, 7.6], [171, 219, 7.7], [221, 261, 7.4], [308, 335, 7.8]];
     lamp(8.2); drift(10.5); b.coins(9.8, 1.2, 3, 0.8);
     snowman(15.2); b.coins(14.8, 2.2, 3, 0.7);
     flake(18.5, 3.4); b.coins(19.2, 7.4, 3, 0.9);
@@ -1259,19 +1259,56 @@ const ALL_LEVELS = [
     L.weCbSwap = CB + 20; L.weRows.push({ kind: 'carnaby', x0: CB + 0.5, x1: 260.5 });
     art('we_cb_arch', CB + 1.0, 0, 4.2, { mid: true }); ledge(CB + 1.2, 4.05, 5.5);
     L.weArch = { x: CB + 1.0 };
-    bigman(CB - 1.6); b.special(CB + 4.0, 5.1);                 // 5: on top of the Carnaby arch
-    b.coins(CB + 1.6, 4.9, 3, 0.8);
+    bigman(CB - 1.6); b.coins(CB + 1.6, 4.9, 5, 0.8);         // along the top of the Carnaby arch
     [['we_cb_ball', CB + 10, 5.9], ['we_cb_cane', CB + 17, 5.6], ['we_cb_gift', CB + 24, 6.0], ['we_cb_ball', CB + 31, 5.8], ['we_cb_cane', CB + 37, 5.6]]
       .forEach(([k, x, y]) => art(k, x, y, k === 'we_cb_cane' ? 1.8 : k === 'we_cb_gift' ? 1.5 : 1.6, { hang: true }));
     snowman(CB + 11.0); b.coins(CB + 10.6, 2.2, 3, 0.7);
     b.pigeon(CB + 16.0);
     bigman(CB + 20.0); bench(CB + 25.0); b.coins(CB + 25.2, 1.6, 3, 0.7);
     b.pigeon(CB + 29.0); grit(CB + 34.0); b.coins(CB + 33.8, 1.9, 3, 0.7);
-    // ---------- 5. Covent Garden: piazza, then through the old market hall ----------
-    const CG = 261.0;
-    ground(261, 344, 'wecobble');
+    // ---------- 5. Piccadilly Circus: the fountain, then the giant screens: climb the gantry, ride the cradle down ----------
+    const PC = 261.0;
+    ground(261, 307, 'wepave');
+    // the fountain with the winged archer: three round steps to hop up and over
+    const FX = PC + 2.6, FW = 4.833;
+    art('we_pc_fountain', FX, 0, 5.6, { back: true });
+    solid(FX + FW * 0.02, FW * 0.96, 0.5); solid(FX + FW * 0.1, FW * 0.8, 0.8); solid(FX + FW * 0.18, FW * 0.64, 1.05);
+    b.arc(FX + 0.6, 1.4, 5, 3.2, 1.0);
+    art('we_pc_sign', PC + 8.4, 0, 2.6, { back: true });
+    art('we_pc_flowers', PC + 9.6, 0, 1.6); solid(PC + 9.7, 1.2, 1.5); ledge(PC + 9.65, 1.55, 1.3);
+    art('we_pc_barrier', PC + 12.4, 0, 0.75); solid(PC + 12.45, 1.2, 0.7);
+    b.coins(PC + 9.9, 2.4, 2, 0.6);
+    // the screens building: its two side buildings and the curved front covered in screens (adverts change in draw.js)
+    const S0 = PC + 14.0, BM = S0 + 5.7, S1 = BM + 19.914;
+    L.wePc = { x0: S0, bm: BM, x1: S1, swap: [PC - 3.0, S1 + 2.8] };
+    // the gantry across the screens: three walkways, each a tap above the last, hung on brackets; ladders between (just for looks)
+    const walk = (x, y, parts) => {
+      let xx = x; const pcs = [];
+      for (const k of parts) { const w = { we_gw_l: 3.067, we_gw_m: 7.959, we_gw_r: 3.076 }[k]; pcs.push([k, xx]); xx += w - 0.02; }
+      (L.weGw = L.weGw || []).push({ y, pcs, x0: x, x1: xx });
+      ledge(x + 0.15, y, xx - x - 0.3);
+      return xx;
+    };
+    const W1 = 2.5, W2 = 4.7, W3 = 6.9;
+    walk(BM + 0.4, W1, ['we_gw_l', 'we_gw_r']);
+    walk(BM + 5.2, W2, ['we_gw_l', 'we_gw_r']);
+    const w3 = walk(BM + 9.6, W3, ['we_gw_l', 'we_gw_m']);
+    L.weLadders = [[BM + 1.2, 0], [BM + 5.6, W1], [BM + 10.0, W2]];
+    b.coins(BM + 1.0, W1 + 0.9, 5, 1.0); b.coins(BM + 5.8, W2 + 0.9, 5, 1.0); b.coins(BM + 10.2, W3 + 0.9, 4, 1.0);
+    b.special(BM + 16.6, W3 + 1.6);                            // 5: at the top of the gantry, by the biggest screen
+    // the window cleaners' cradle at the end of the top walkway: it waits for A, then lowers him to the street
+    const cr = { kind: 'lift', mover: true, trig: 'weCradle', x: w3 - 0.1, w: 4.38, y: W3, y0: W3, y1: 0, up: 3.4, d0: 0.45 };
+    (L.movers = L.movers || []).push(cr); L.oneways.push(cr); L.weCradle = cr;
+    L.solids.push({ kind: 'block', x: cr.x + cr.w - 0.2, y: 2.0, w: 0.4, h: 20, style: 'hidden', noGrab: true });   // the cradle's far rail: he rides it down and walks out at the bottom
+    // down on the street: under the gantry for those who stay low
+    b.coins(S0 + 1.0, 1.1, 4, 0.9); b.pigeon(BM + 3.5); drift(BM + 7.5); b.coins(BM + 9.0, 1.1, 4, 0.9);
+    snowman(BM + 13.0);                                         // (no pigeon near the cradle: A can't hop while it lowers him)
+    b.coins(S1 + 1.0, 1.1, 4, 0.9);
+    // ---------- 6. Covent Garden: piazza, then through the old market hall ----------
+    const CG = 307.0;
+    ground(307, 390, 'wecobble');
     art('we_chalets', CG + 1.5, 0, 3.0, { back: true }); ledge(CG + 1.7, 2.75, 10.6);
-    b.coins(CG + 2.2, 3.6, 9, 1.1); b.pigeon(CG + 6.5);
+    b.coins(CG + 2.2, 3.6, 9, 1.1);   // (no pigeon here: it would walk into the cradle while A rides it down)
     art('we_cg_tree', CG + 13.5, 0, 7.5, { back: true });
     art('we_reindeer', CG + 18.5, 0, 2.6, { back: true });
     art('we_chestnut', CG + 21.0, 0, 1.5); solid(CG + 21.2, 1.6, 1.4);
@@ -1292,9 +1329,9 @@ const ALL_LEVELS = [
     b.pigeon(HI + 30.5);
     L.weHallOut = { x: HO - 0.6 };
     bigman(HO + 4.5);
-    // ---------- 6. Trafalgar Square: the frozen fountains ----------
-    const TF = 344.0;
-    ground(344, 414, 'wegranite');
+    // ---------- 7. Trafalgar Square: the frozen fountains ----------
+    const TF = 390.0;
+    ground(390, 460, 'wegranite');
     art('we_tf_lion', TF + 0.5, 0, 2.6, { back: true });
     // ice ramp up onto the first basin, slide across, hop the rim, slide across the second one: belts, nothing that hurts
     const ICE = 1.0;
